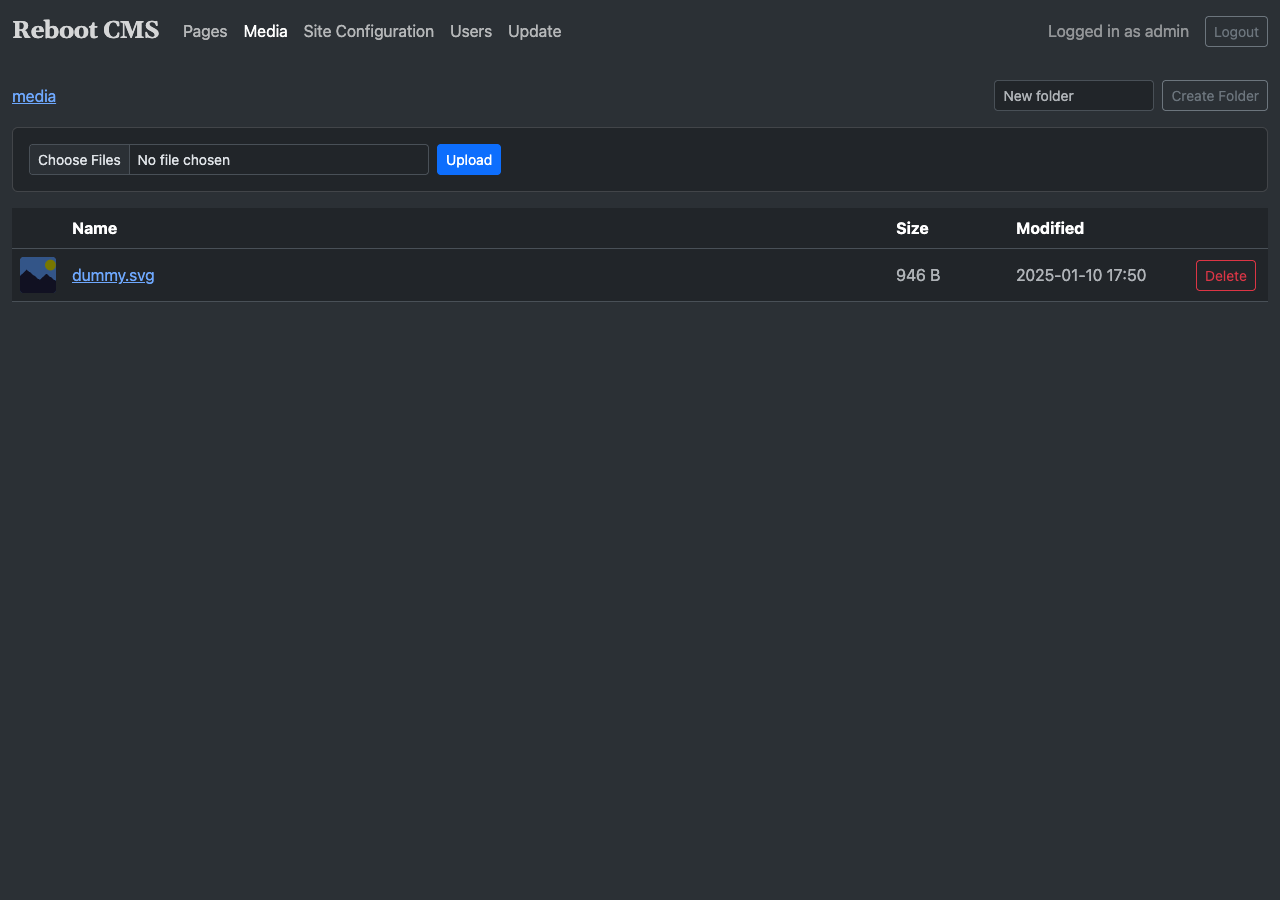
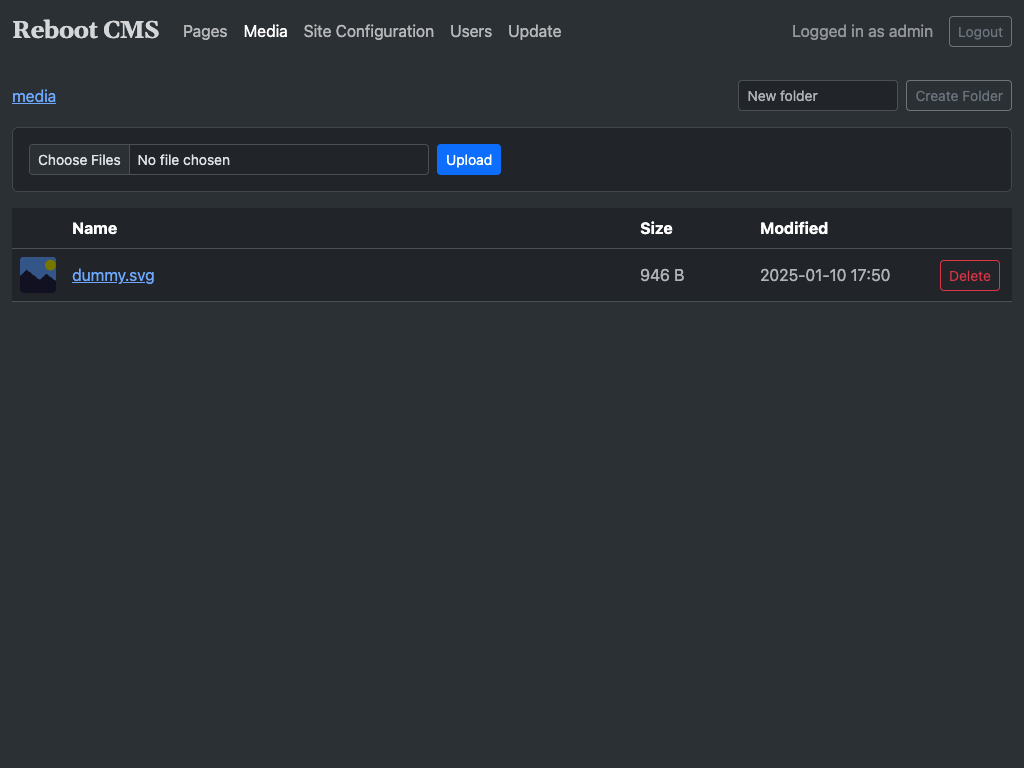
Adjust screenshot resolution to 1024x768 and update related assets.

diff --git a/docs/screenshots.md b/docs/screenshots.md
@@ -34,7 +34,6 @@ The script logs in to the admin interface and takes screenshots of each section:
 |---|---|
 | `reboot-cms-index.png` | Front page (no auth) |
 | `reboot-cms-admin-login.png` | Admin login screen |
-| `reboot-cms-admin-pages.png` | Pages list |
 | `reboot-cms-admin-page-edit.png` | Page editor (index.md) |
 | `reboot-cms-admin-site-configuration.png` | Site configuration editor |
 | `reboot-cms-admin-media.png` | Media file manager |

diff --git a/README.md b/README.md
@@ -249,14 +249,10 @@ and update the CMS.
 
 ![Login](docs/img/reboot-cms-admin-login.png)
 
-### Pages
+### Edit a page
 
 The "Pages" section lists all markdown pages in your site. Click on a page name to open it in the editor.
 Pages are organized in a tree structure reflecting the folder hierarchy in `site/pages/`.
-
-![Pages](docs/img/reboot-cms-admin-pages.png)
-
-### Edit a page
 
 ![Edit a page](docs/img/reboot-cms-admin-page-edit.png)
 
